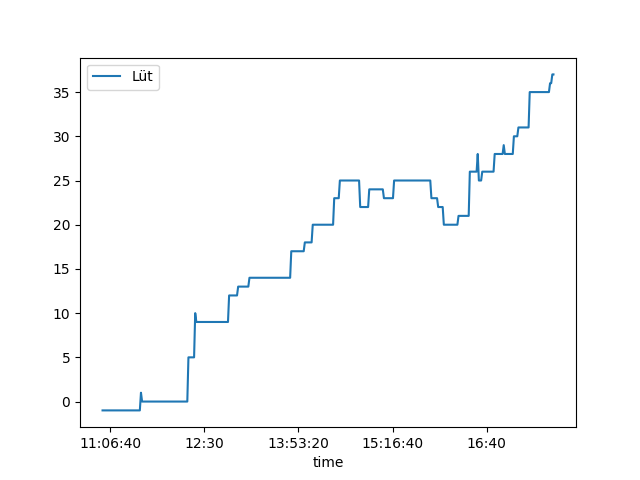
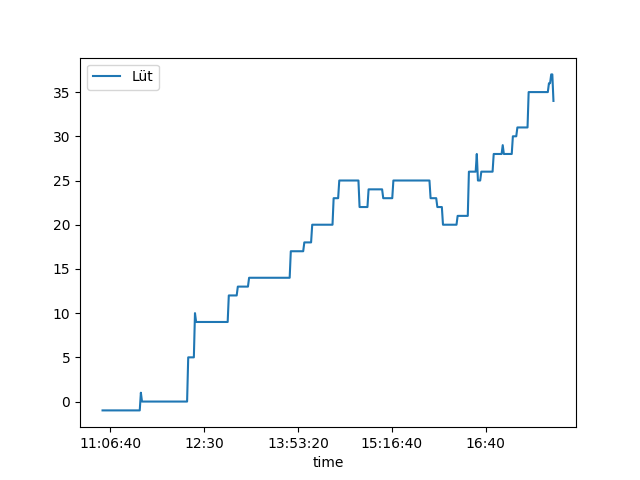
auto: new data

diff --git a/README.md b/README.md
@@ -1,4 +1,4 @@
-### Jitz grad: 37/33 (Donnsti, 2021-12-30 17:39:00
+### Jitz grad: 34/33 (Donnsti, 2021-12-30 17:40:00
 
 ### Hütige Vrlouf:
 ![Graph](Today.png)
